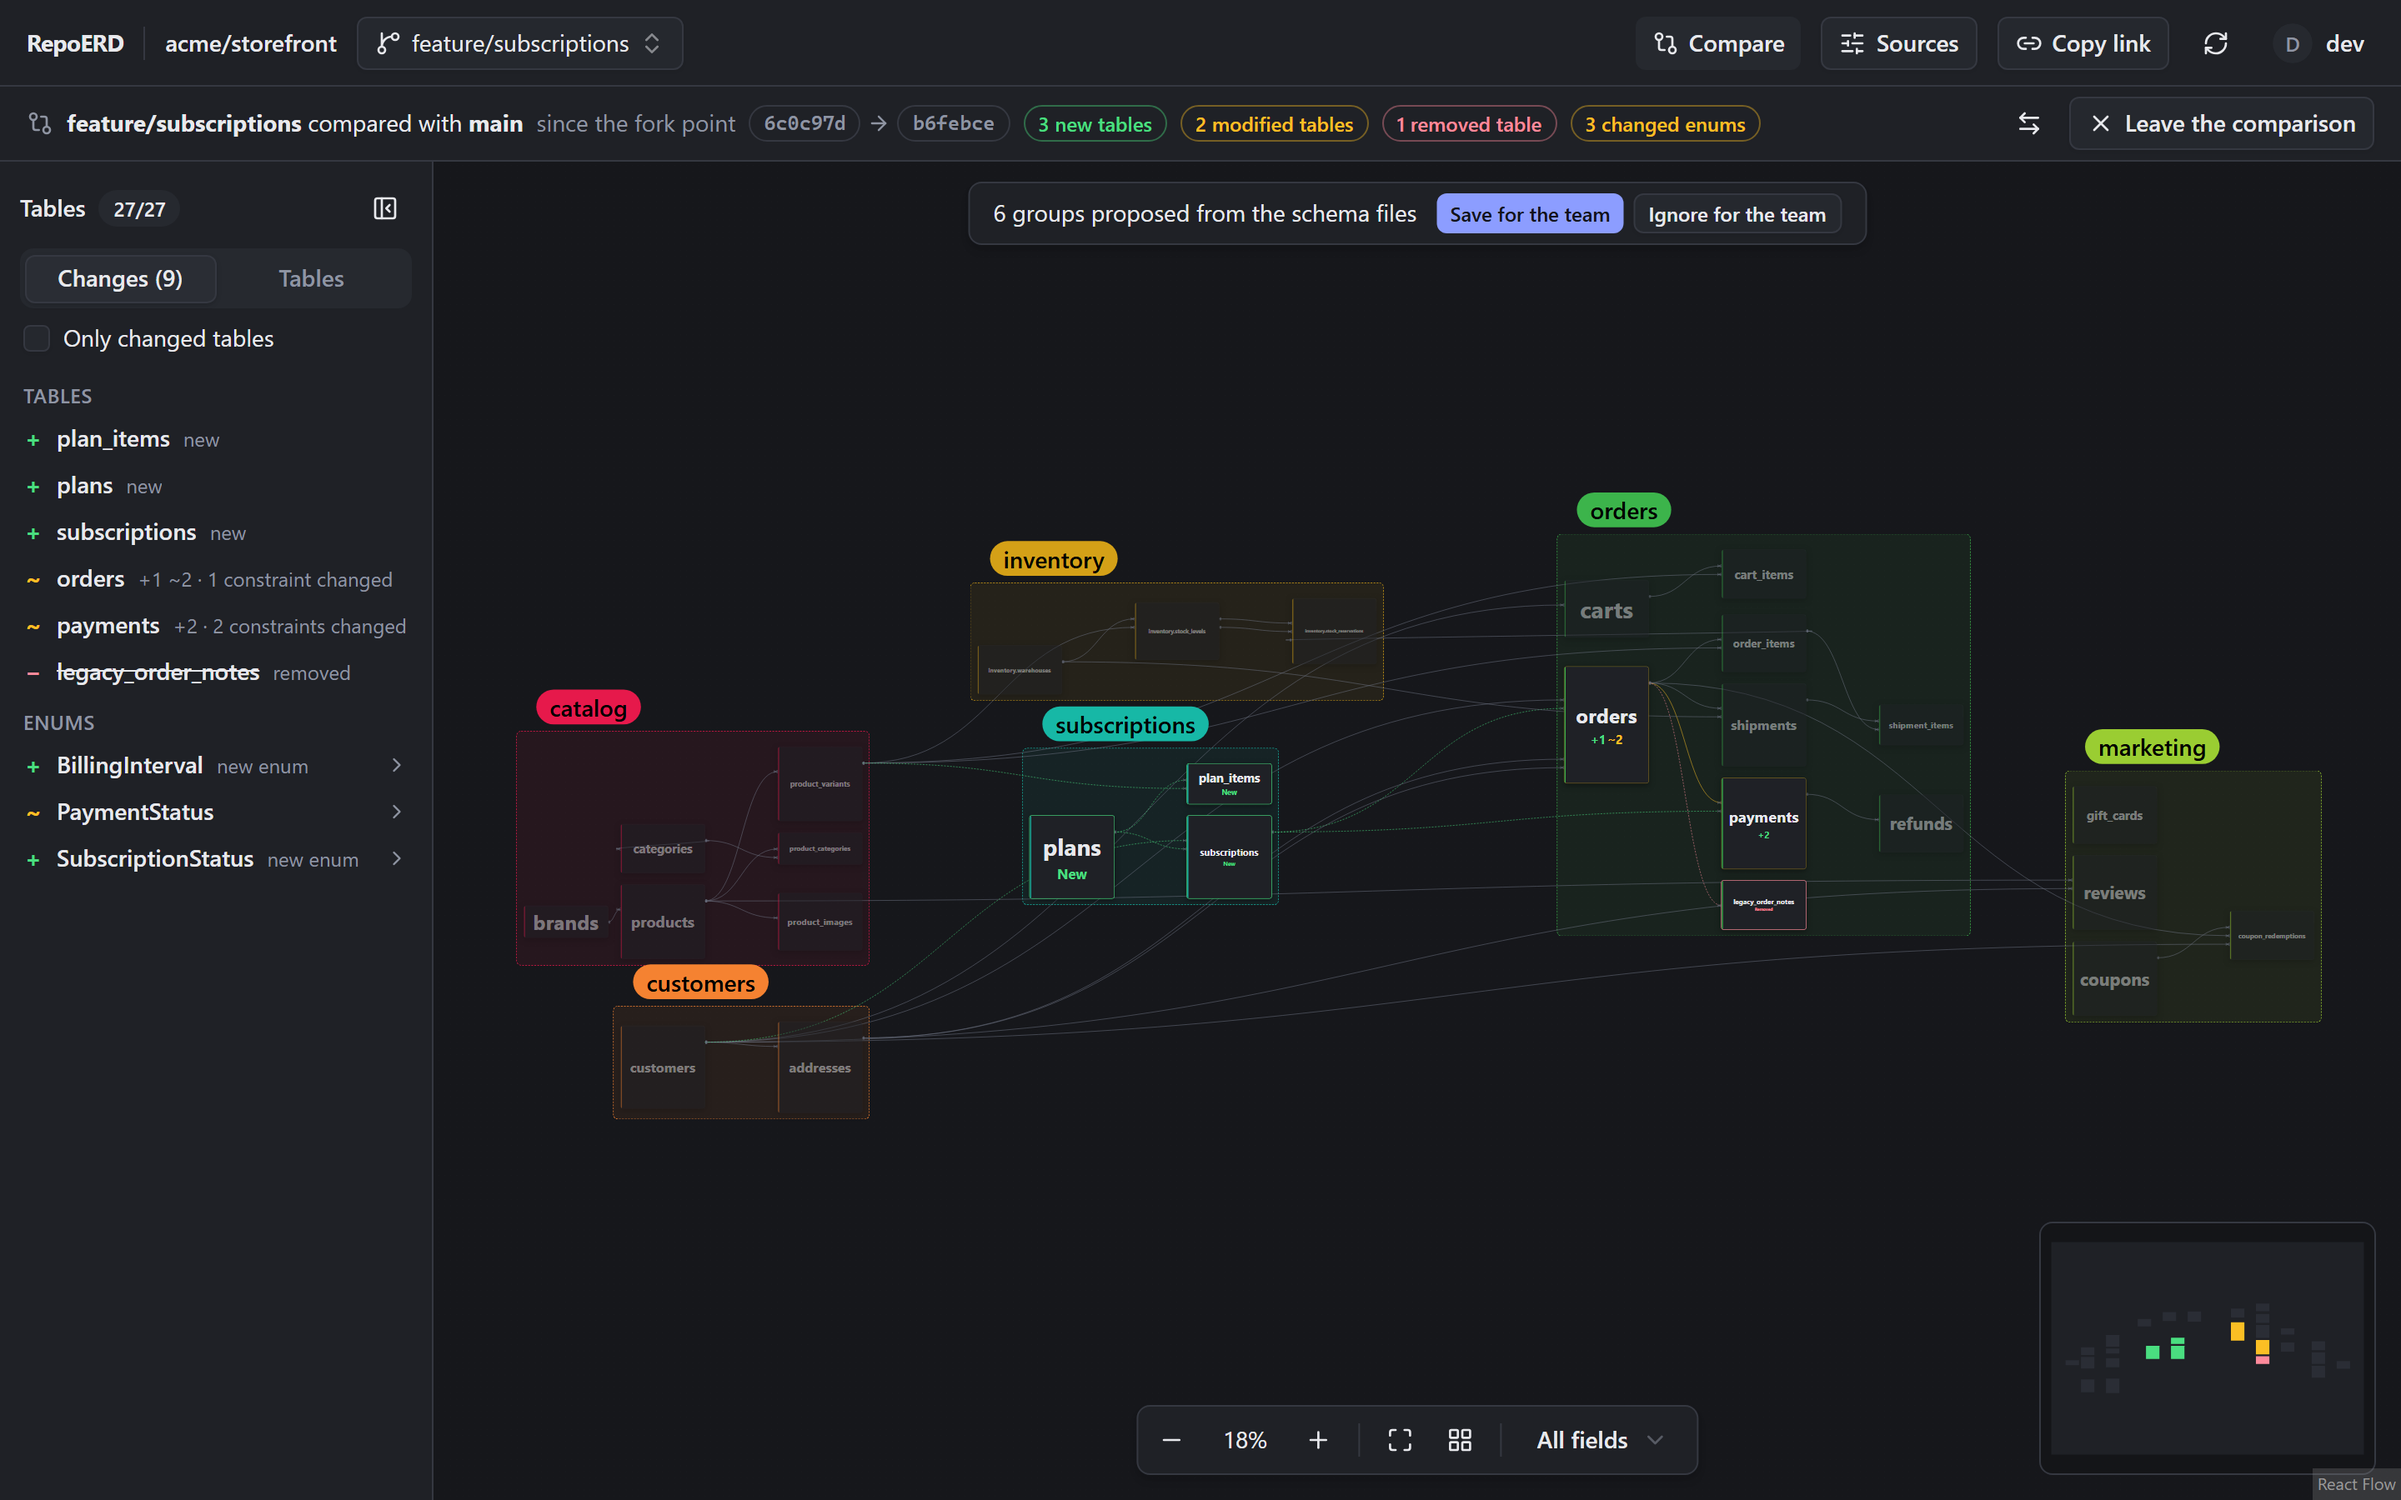
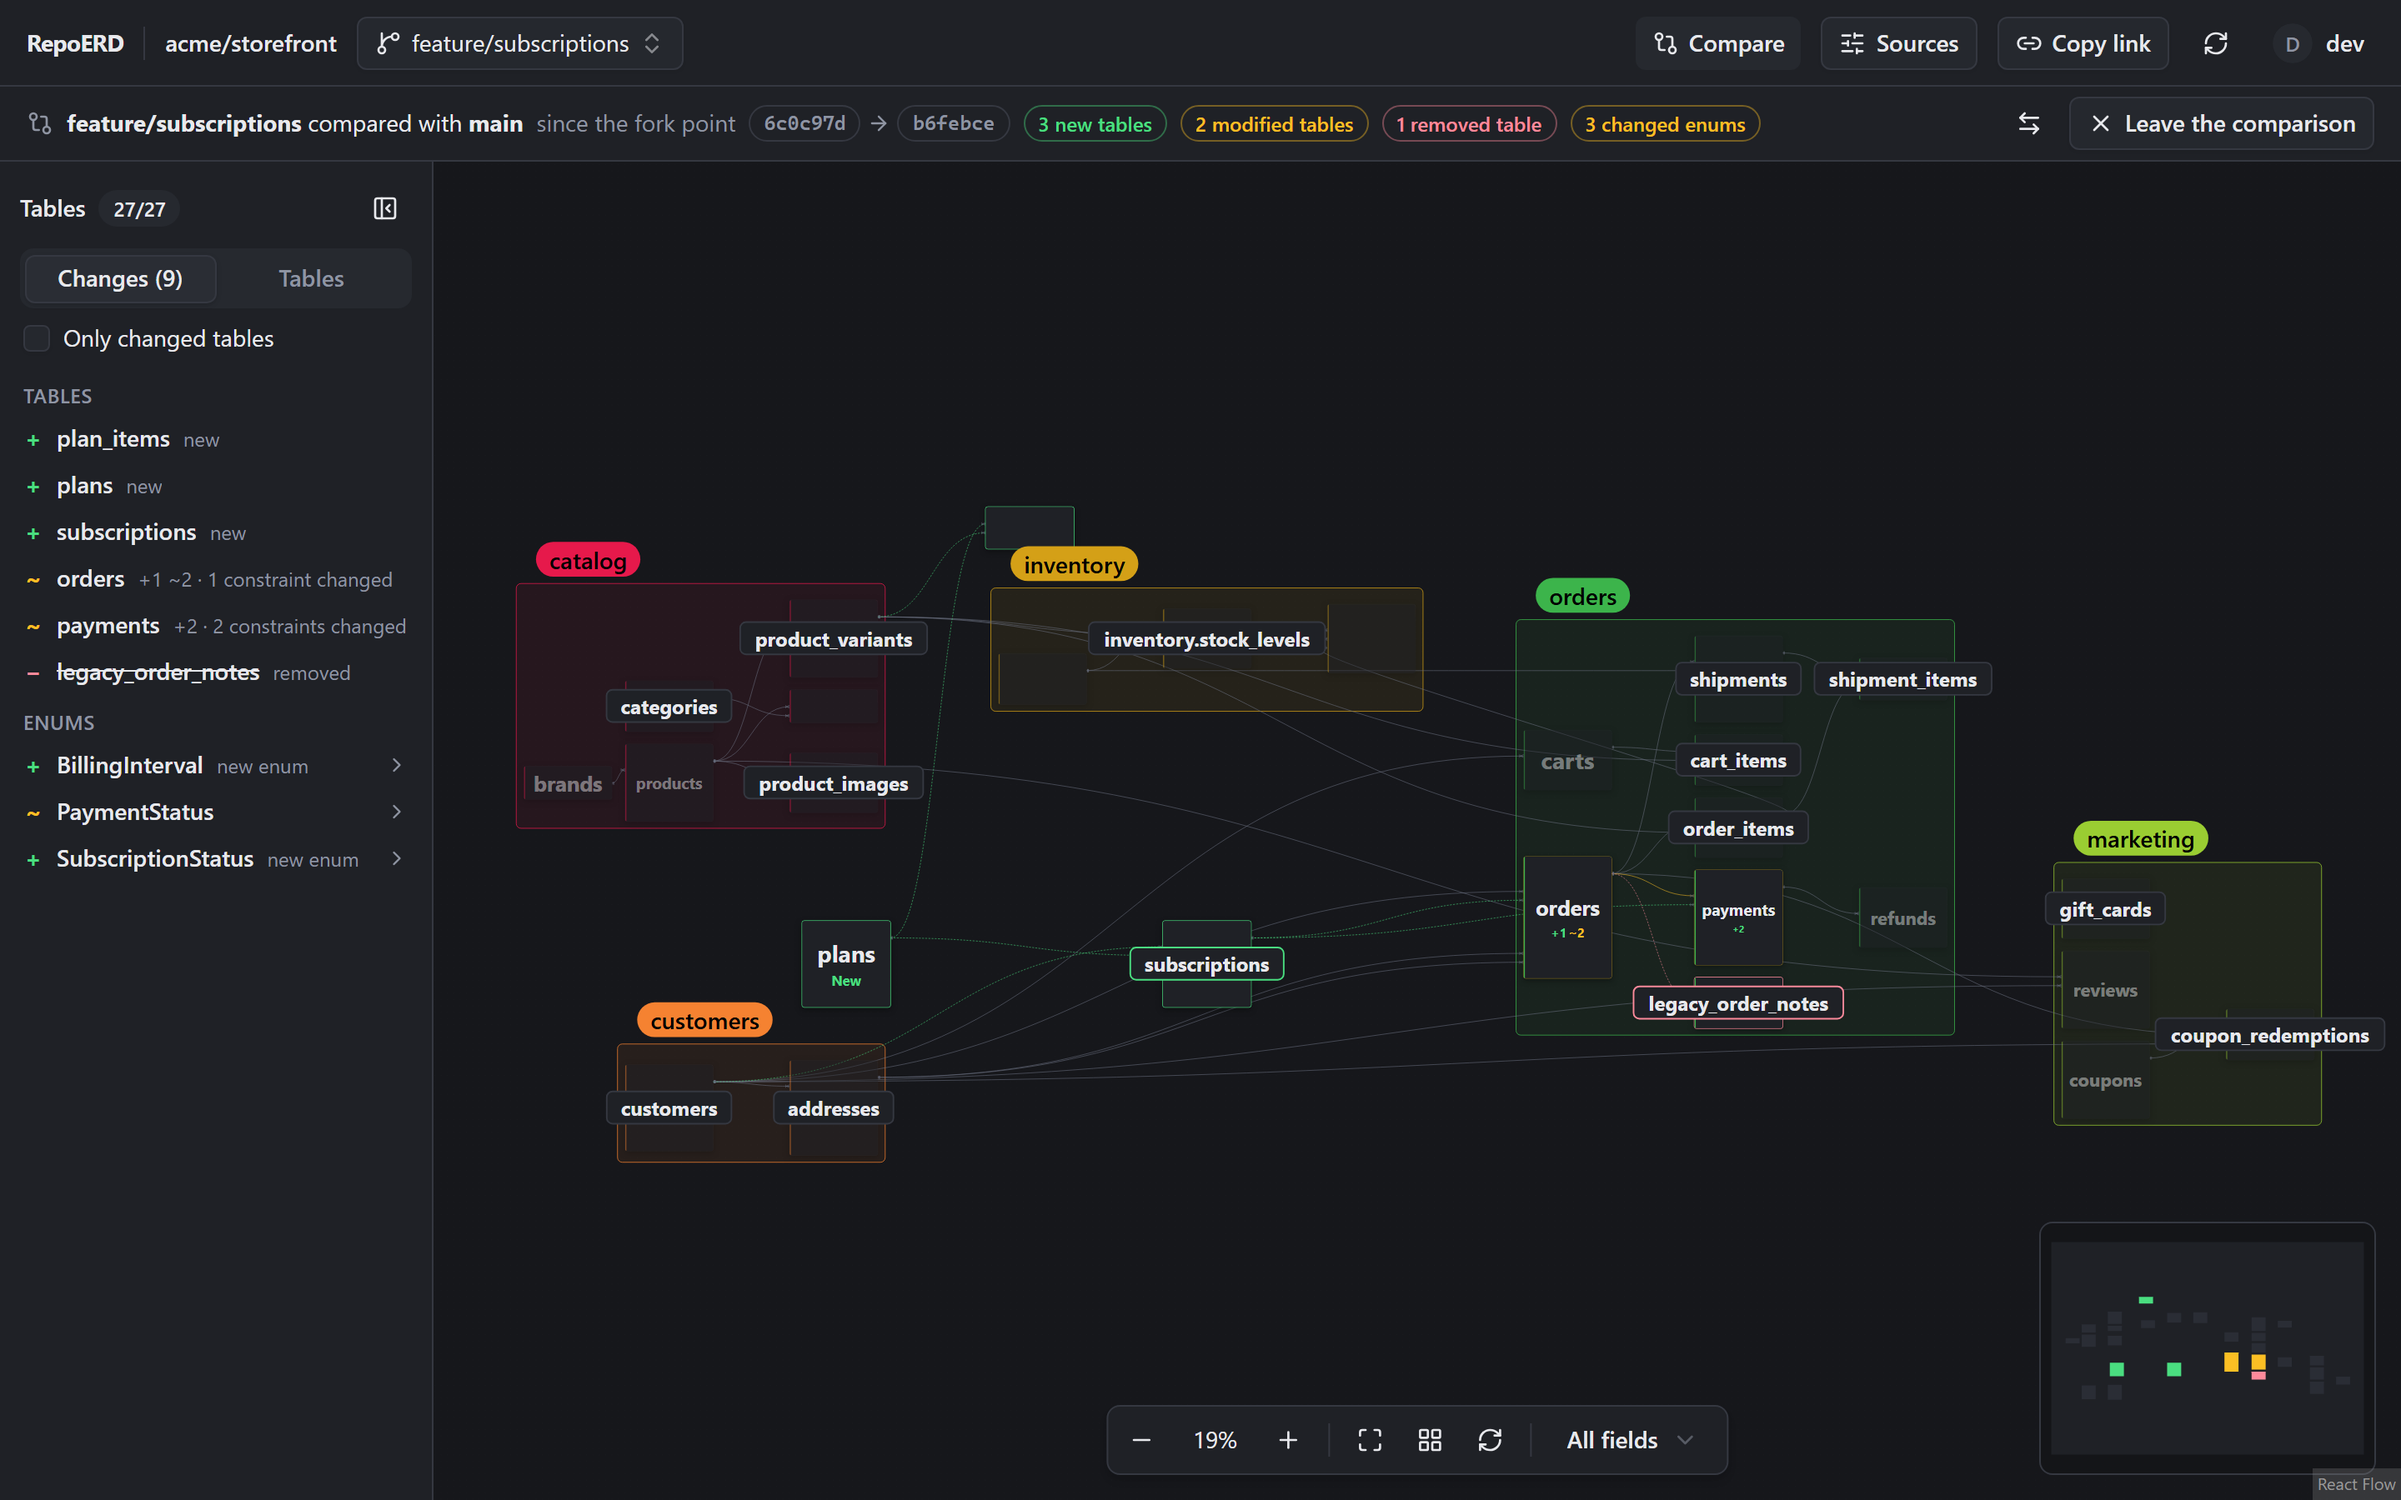
docs(readme): fresh screenshots with table groups and the repository page
The README target of the screenshot script now saves the storefront's
proposed groups for the team, stars and opens repositories, zooms the
hero on the orders and marketing groups (45 %, cards readable) and
captures the repository page once every format is detected.

diff --git a/scripts/ui-screenshots.ts b/scripts/ui-screenshots.ts
@@ -5,11 +5,12 @@
  *   Images land in apps/web/.screenshots/<label>/<lang>-<theme>-<screen>.png (git-ignored).
  * - The images of the README, in English (docs/images/):
  *     SCREENS_TARGET=readme SCREENS_BASE_URL=http://localhost:3300 pnpm exec tsx scripts/ui-screenshots.ts
- *   against a production server in fake mode with a fresh database (automatic layouts).
+ *   against a production server in fake mode with a fresh database (automatic layouts): the
+ *   script saves the proposed table groups for the team, stars and opens repositories first.
  */
 import { mkdir } from 'node:fs/promises'
 import { fileURLToPath } from 'node:url'
-import { type Browser, chromium, type Page } from 'playwright'
+import { type Browser, type BrowserContextOptions, chromium, type Page } from 'playwright'
 
 const BASE_URL = process.env.SCREENS_BASE_URL ?? 'http://localhost:5180'
 const TARGET = process.env.SCREENS_TARGET ?? 'screens'
@@ -121,12 +122,24 @@ interface ReadmeShot {
   theme: 'dark' | 'light'
   /** Rearrange all tables first: the comparison adds tables to a layout saved on `main`, and they can overlap. */
   rearrange?: boolean
+  /** Centres the frames of these groups and zooms in on them: the whole schema fits only at a zoom where nothing reads. */
+  focus?: { groups: string[]; zoom: number }
 }
 
-/** The README images (spec §7.2), all from the acme/storefront showcase. */
+/** The README images (spec §7.2) of the acme/storefront showcase; the repository page comes last. */
 const README_SHOTS: ReadmeShot[] = [
-  { file: 'storefront-dark.png', path: '/acme/storefront', theme: 'dark' },
-  { file: 'storefront-light.png', path: '/acme/storefront', theme: 'light' },
+  {
+    file: 'storefront-dark.png',
+    path: '/acme/storefront',
+    theme: 'dark',
+    focus: { groups: ['orders', 'marketing'], zoom: 0.45 },
+  },
+  {
+    file: 'storefront-light.png',
+    path: '/acme/storefront',
+    theme: 'light',
+    focus: { groups: ['orders', 'marketing'], zoom: 0.45 },
+  },
   { file: 'table-detail.png', path: '/acme/storefront?active=orders', theme: 'dark' },
   {
     file: 'related-tables.png',
@@ -152,11 +165,13 @@ async function newContext(
   lang: 'en' | 'fr',
   theme: 'dark' | 'light',
   deviceScaleFactor = 1,
+  storageState?: BrowserContextOptions['storageState'],
 ) {
   const context = await browser.newContext({
     viewport: VIEWPORT,
     deviceScaleFactor,
     locale: lang === 'fr' ? 'fr-FR' : 'en-US',
+    storageState,
   })
   await context.addInitScript(
     (choice) => {
@@ -196,10 +211,91 @@ async function captureScreens(browser: Browser) {
   }
 }
 
+/** Starred and opened before the captures: the repository page shows its favourites and recents. */
+const FAVORITES = ['acme/storefront', 'acme/blog-drizzle']
+const OPENED = ['acme/crm', 'acme/blog-drizzle']
+
+/**
+ * The state the README shows: the storefront's proposed groups saved for the team (its first
+ * visit already laid the tables out by these groups), favourites, and repositories opened lately.
+ * Returns the browser storage the captures start from: another browser would be offered to lay
+ * the diagram out by group, which it already is.
+ */
+async function prepareReadme(browser: Browser) {
+  const context = await newContext(browser, 'en', 'dark')
+  const page = await context.newPage()
+  const open = (path: string) =>
+    page.goto(new URL(path, BASE_URL).href, { waitUntil: 'networkidle' })
+  await open('/acme/storefront')
+  // Let the first layout be placed and saved.
+  await page.waitForTimeout(1500)
+  await page.getByRole('button', { name: 'Save for the team' }).click()
+  await page.getByRole('button', { name: 'Save for the team' }).waitFor({ state: 'detached' })
+  for (const repo of OPENED) {
+    await open(`/${repo}`)
+    await page.waitForTimeout(1500)
+  }
+  await open('/')
+  for (const repo of FAVORITES) {
+    await page
+      .getByRole('button', { name: `Add ${repo} to favourites` })
+      .first()
+      .click()
+    await page.waitForTimeout(300)
+  }
+  const storage = await context.storageState()
+  await context.close()
+  return storage
+}
+
+/** Pans the frames of the groups to the middle of the canvas, then zooms in around them. */
+async function focusGroups(page: Page, groups: string[], zoom: number) {
+  const pane = await page.locator('.react-flow').boundingBox()
+  const frames = await Promise.all(
+    groups.map(async (group) => {
+      const id = await page
+        .locator('[data-label-of]', { hasText: new RegExp(`^${group}$`) })
+        .getAttribute('data-label-of')
+      const frame = await page.locator(`.group-frame[data-group-id="${id}"]`).boundingBox()
+      if (!frame) throw new Error(`No frame for the group ${group}`)
+      return frame
+    }),
+  )
+  if (!pane) throw new Error('No canvas')
+  const left = Math.min(...frames.map((frame) => frame.x))
+  const right = Math.max(...frames.map((frame) => frame.x + frame.width))
+  const top = Math.min(...frames.map((frame) => frame.y))
+  const bottom = Math.max(...frames.map((frame) => frame.y + frame.height))
+  const middle = { x: pane.x + pane.width / 2, y: pane.y + pane.height / 2 }
+  // An empty corner of the fitted view: dragging it pans without moving a table.
+  const grip = { x: pane.x + 60, y: pane.y + 60 }
+  await page.mouse.move(grip.x, grip.y)
+  await page.mouse.down()
+  await page.mouse.move(
+    grip.x + middle.x - (left + right) / 2,
+    grip.y + middle.y - (top + bottom) / 2,
+    { steps: 10 },
+  )
+  await page.mouse.up()
+  // The wheel zooms around the pointer: the frames stay in the middle.
+  await page.mouse.move(middle.x, middle.y)
+  const zoomText = page
+    .getByRole('button', { name: 'Zoom in' })
+    .locator('xpath=preceding-sibling::span[1]')
+  while (Number.parseInt((await zoomText.textContent()) ?? '0', 10) / 100 < zoom) {
+    await page.mouse.wheel(0, -40)
+    await page.waitForTimeout(50)
+  }
+  // A hovered table highlights its links and dims the others: leave the pointer on the header.
+  await page.mouse.move(middle.x, 20)
+  await page.waitForTimeout(500)
+}
+
 async function captureReadme(browser: Browser) {
   await mkdir(README_DIR, { recursive: true })
+  const storage = await prepareReadme(browser)
   for (const shot of README_SHOTS) {
-    const context = await newContext(browser, 'en', shot.theme, 2)
+    const context = await newContext(browser, 'en', shot.theme, 2, storage)
     const page = await context.newPage()
     await page.goto(new URL(shot.path, BASE_URL).href, { waitUntil: 'networkidle' })
     // The first visit places the tables (ELK) and saves the layout: let it settle.
@@ -209,10 +305,27 @@ async function captureReadme(browser: Browser) {
       await page.getByRole('button', { name: 'Rearrange', exact: true }).click()
       await page.waitForTimeout(2000)
     }
+    if (shot.focus) await focusGroups(page, shot.focus.groups, shot.focus.zoom)
     await page.screenshot({ path: fileURLToPath(new URL(shot.file, README_DIR)) })
     console.log(`docs/images/${shot.file}`)
     await context.close()
   }
+  await captureRepositories(browser)
+}
+
+/** The repository page, once the format of every repository is detected. */
+async function captureRepositories(browser: Browser) {
+  const context = await newContext(browser, 'en', 'dark', 2)
+  const page = await context.newPage()
+  await page.goto(new URL('/', BASE_URL).href, { waitUntil: 'networkidle' })
+  await page
+    .getByText('Detecting the schema…')
+    .first()
+    .waitFor({ state: 'detached', timeout: 60_000 })
+  await page.waitForTimeout(500)
+  await page.screenshot({ path: fileURLToPath(new URL('repositories.png', README_DIR)) })
+  console.log('docs/images/repositories.png')
+  await context.close()
 }
 
 const browser = await chromium.launch()

diff --git a/README.md b/README.md
@@ -2,7 +2,7 @@
 
 RepoERD is a self-hosted web app that shows the database schema of your GitHub repositories as an entity-relationship diagram, branch by branch. It reads Prisma and Drizzle (PostgreSQL) schemas straight from the code: nothing to install in your projects, no connection to a database. Everyone arranges the tables as on a whiteboard, and RepoERD shows what a branch changes in the schema before you merge it.
 
-![A Prisma schema of 25 tables in RepoERD, dark theme](docs/images/storefront-dark.png)
+![The orders and marketing table groups of a 25-table Prisma schema in RepoERD, each a coloured frame around its tables, with the table list grouped the same way; dark theme](docs/images/storefront-dark.png)
 
 ## Features
 
@@ -25,7 +25,9 @@ RepoERD is a self-hosted web app that shows the database schema of your GitHub r
 | **Comparing a branch with main** | **A modified table, before → after** |
 | ![The changes of the feature/subscriptions branch](docs/images/compare-changes.png) | ![The orders table in the comparison](docs/images/compare-detail.png) |
 
-![The same schema, light theme](docs/images/storefront-light.png)
+![The repository page: two favourites, the three repositories opened last, and every repository with its schema format (Prisma or Drizzle)](docs/images/repositories.png)
+
+![The same table groups, light theme](docs/images/storefront-light.png)
 
 ## Try it in demo mode
 
